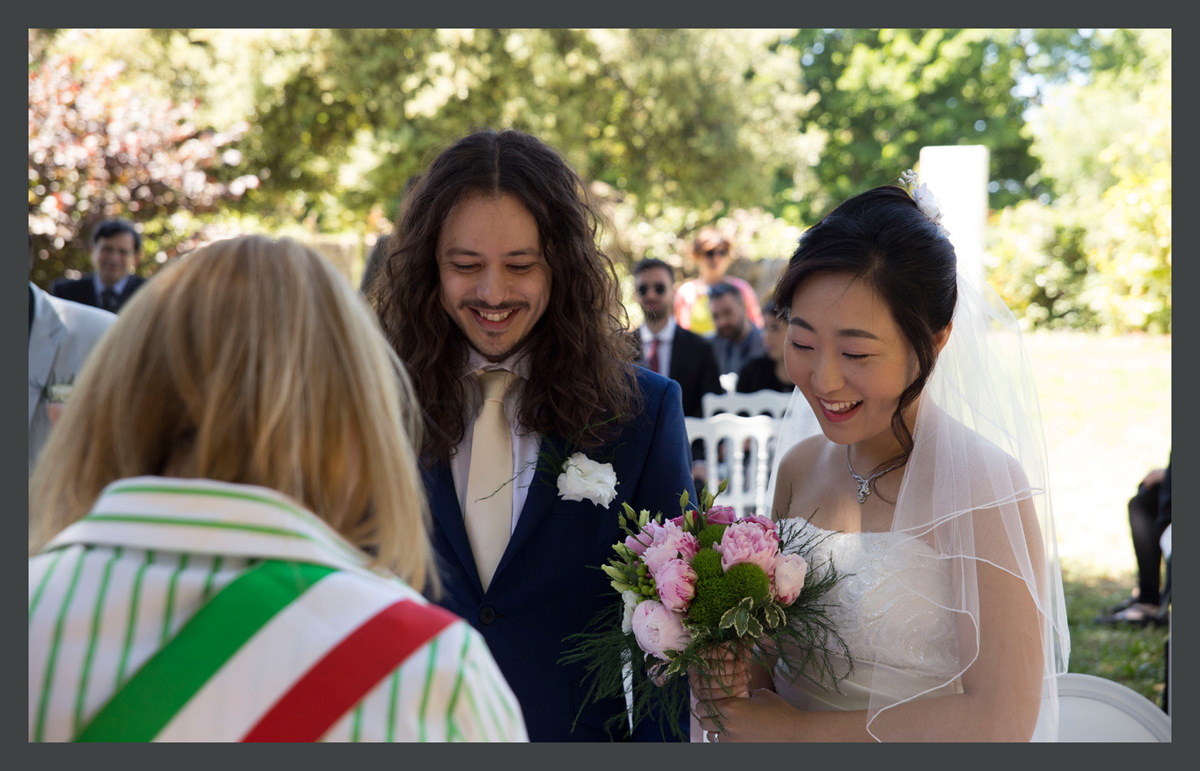
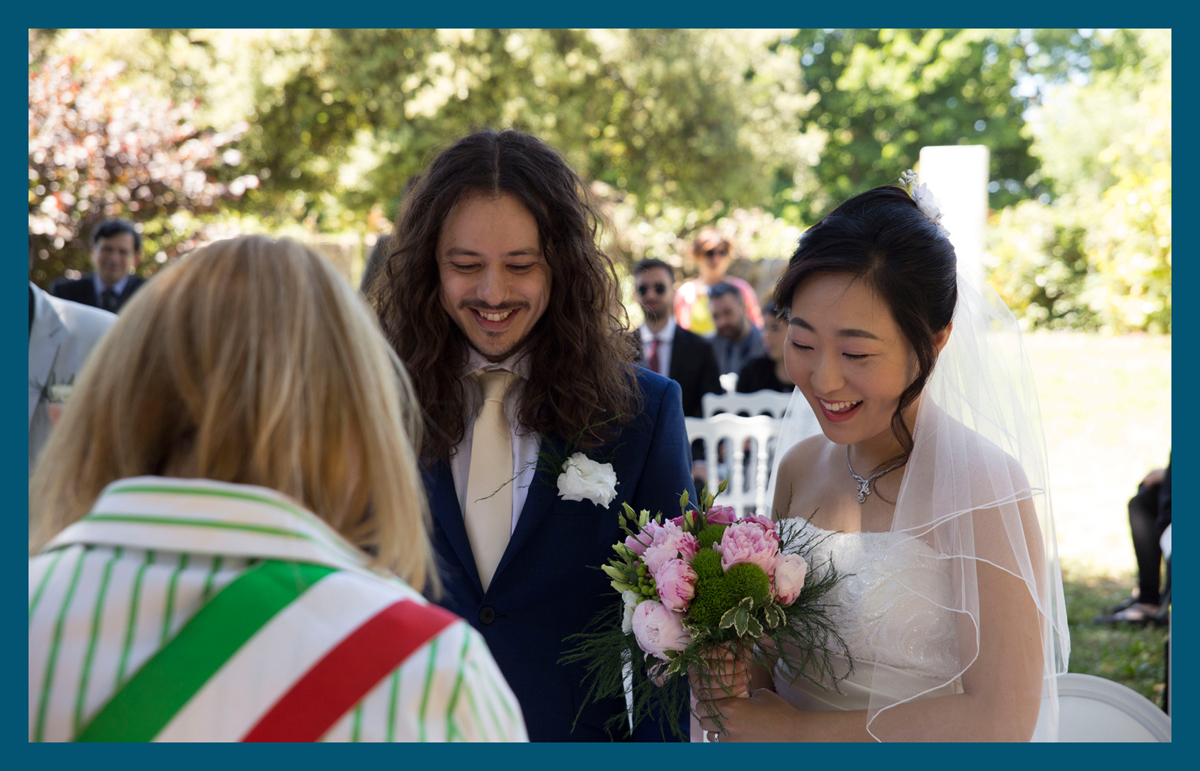
Changed the frame of image carousel

Changed region(s): [[0.0, 0.0, 1.0, 1.0]]

diff --git a/index.html b/index.html
@@ -50,7 +50,7 @@
 
 	<section id="photoGallery">
 		<div class="container">
-			<h2><i class="fas fa-camera-retro headingIcon"></i>Photo gallery</h2>		
+			<h2><i class="fas fa-camera-retro headingIcon"></i>Photo gallery</h2>			
 			<div class="carousel-container">			
 				<div class="carousel-slide">
 					<img src="images/img4.jpg" id="lastClone" alt="Jihyun and her friends">
@@ -64,9 +64,7 @@
 				<button id="nextBtn"><i class="fas fa-chevron-right"></i></button>		
 				<button id="playBtn"><i class="fas fa-play"></i></button>
 				<button id="pauseBtn"><i class="fas fa-pause"></i></button>				
-			</div>
-			<div class="galleryBox1"></div>			
-			<div class="galleryBox2"></div>			
+			</div>					
 		</div>		
 	</section>		
 

diff --git a/style.css b/style.css
@@ -252,10 +252,10 @@ nav i {
 
 .carousel-container {
 	width: 600px;/*60%;*/
-	margin: 25px auto 0px;
+	margin: 30px auto 15px;
 	overflow: hidden;
 	position: relative;
-	/*box-shadow: 3px 3px 7px gray;*/
+	box-shadow: 10px 10px 7px gray;
 }
 
 .carousel-container img {
@@ -316,21 +316,6 @@ nav i {
 	opacity: 1;	
 	font-size: 1.9rem;
 	text-shadow: 1px 1px 3px black;
-}
-
-.galleryBox1 {
-	width: 20px;
-	height: 20px;
-	margin: 0 auto;
-	background-color: #3E4243;
-}
-
-.galleryBox2 {
-	width: 700px;
-	height: 20px;
-	margin: 0 auto;
-	background-color: #3E4243;
-	border-radius: 25%;
 }
 
 
